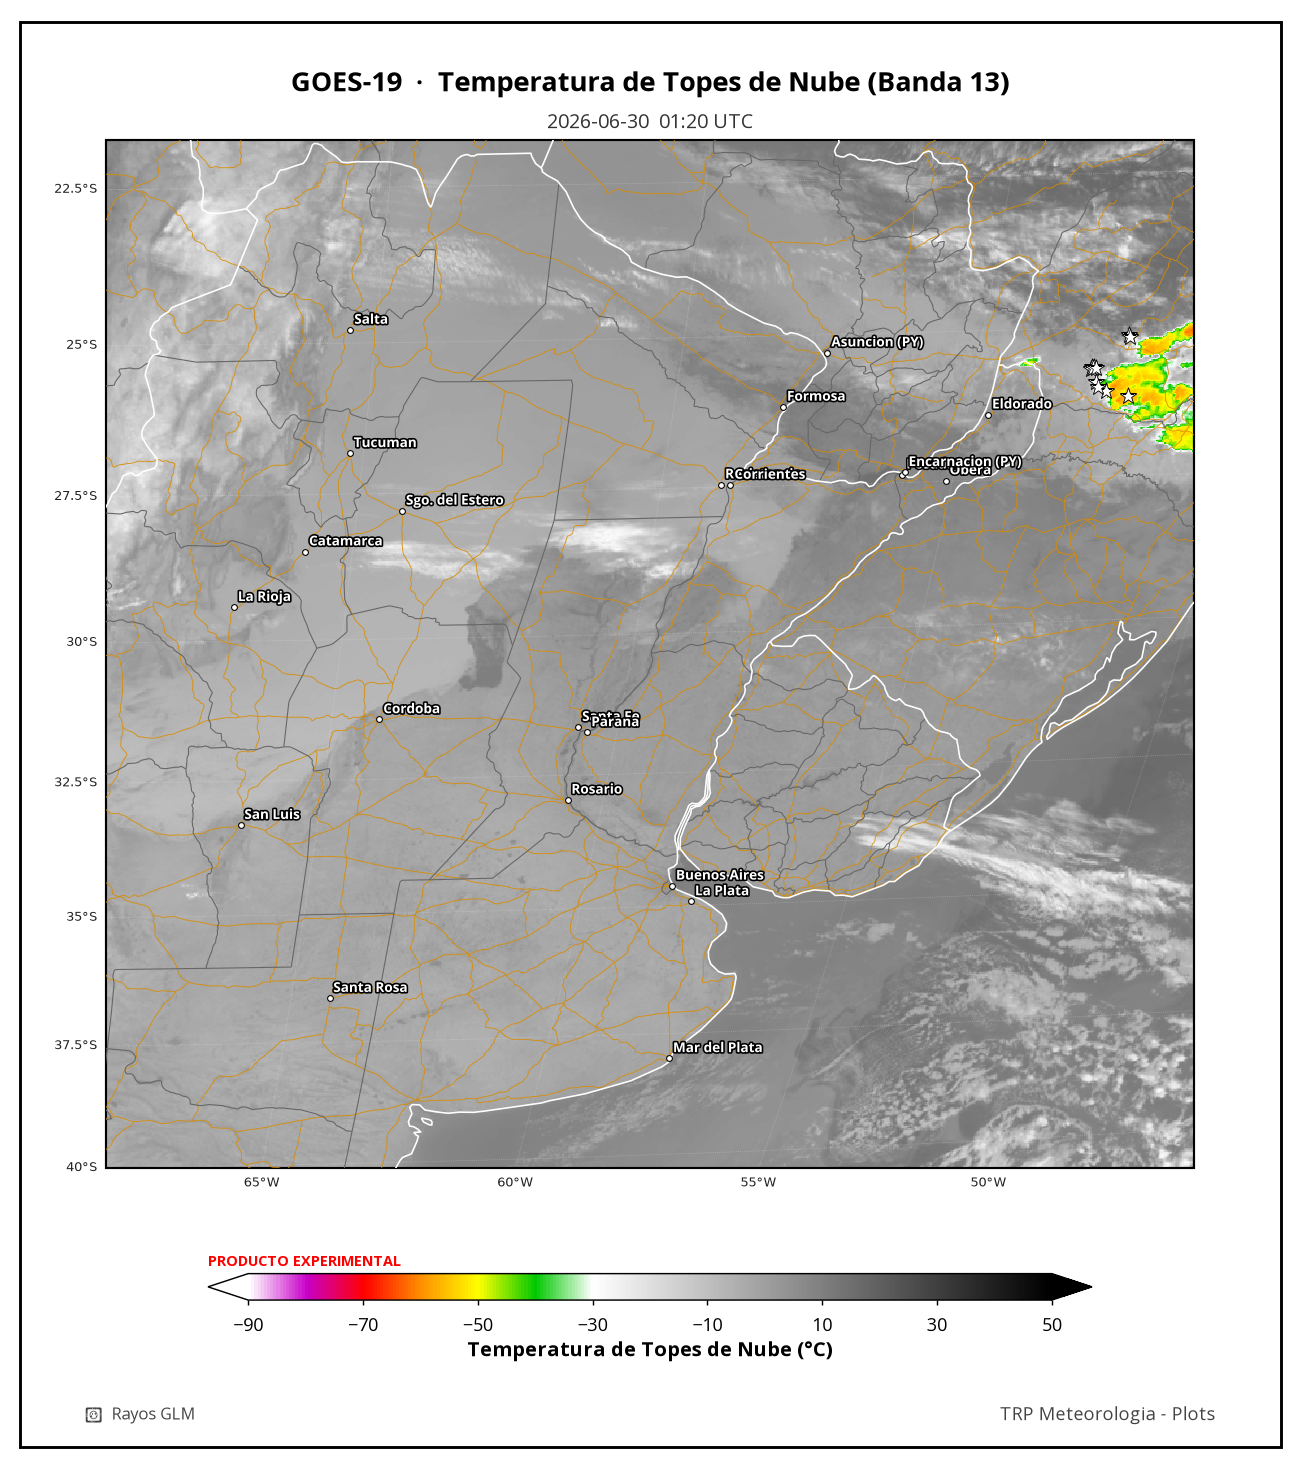
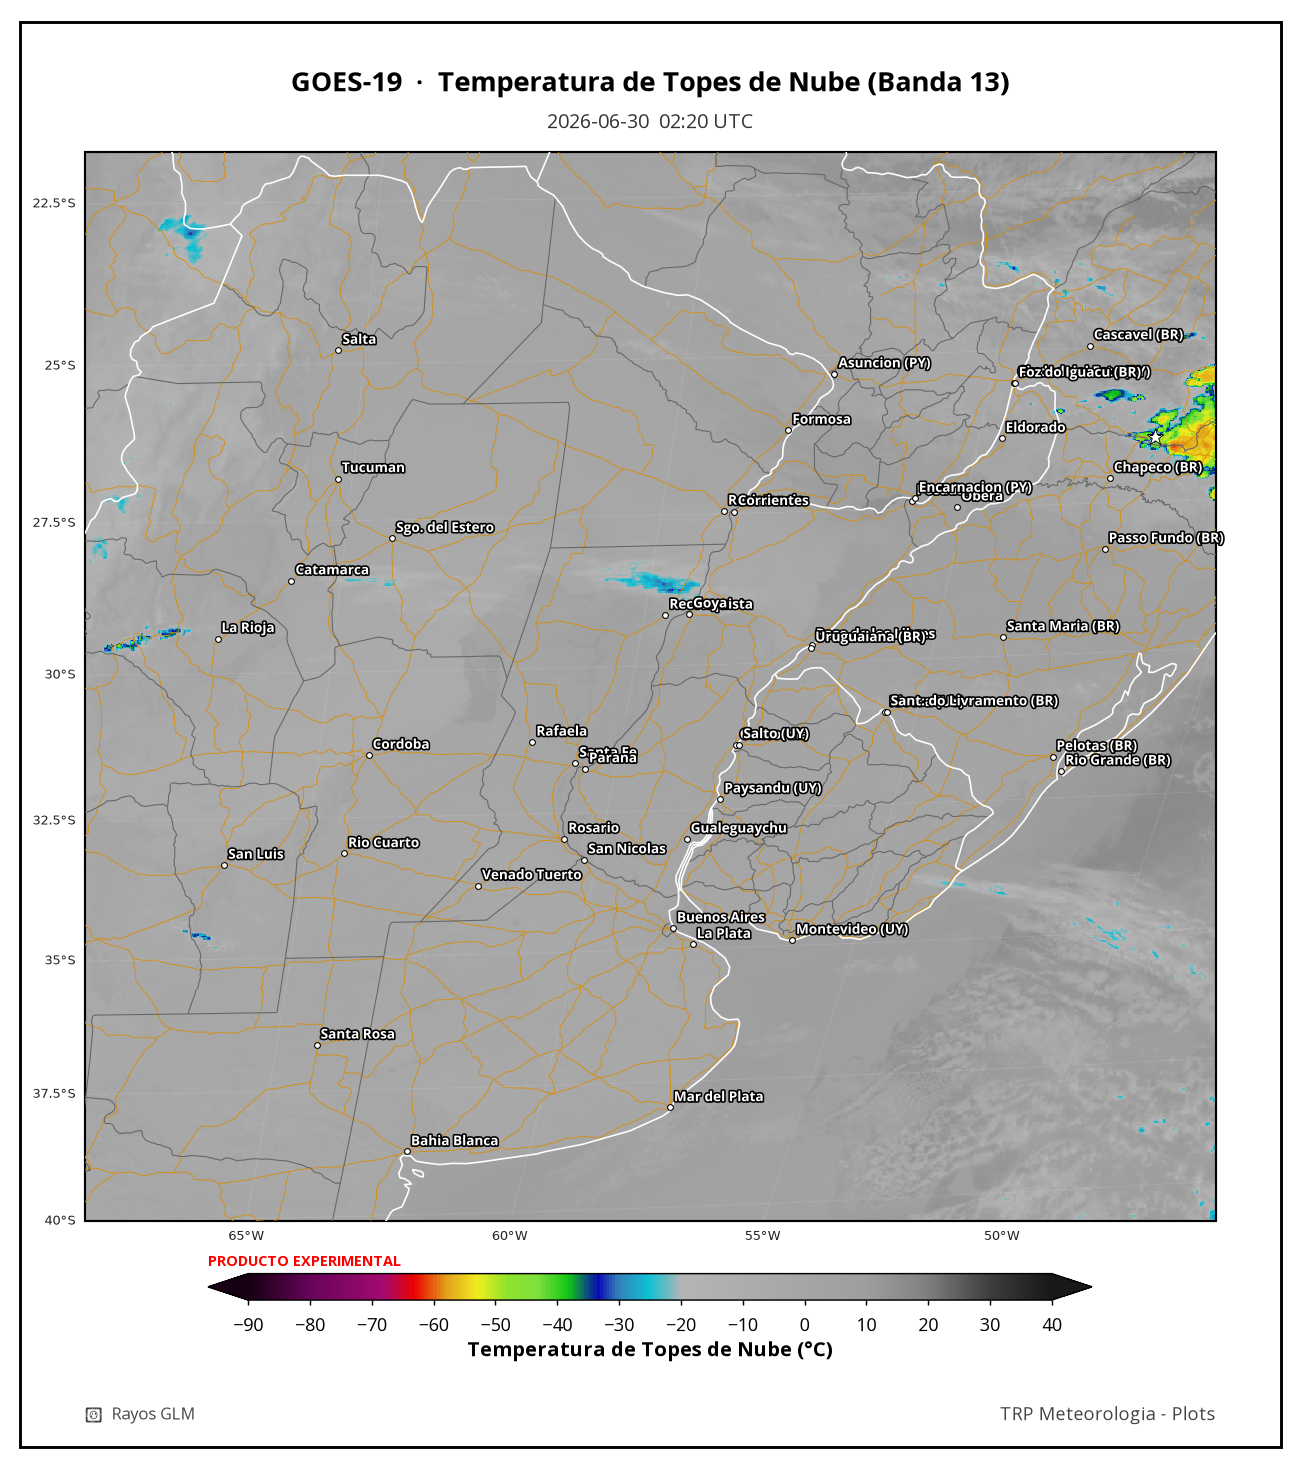
Features: panel mas alto, nueva region sur de Brasil y mas ciudades
- Panel del mapa mas alto hacia abajo (bottom 0.205->0.160), mismo ancho/izquierda.
  El mapa crece sin deformar (aspecto geografico equal preservado).
- Nueva region 'sur_brasil': Parana + Santa Catarina + Rio Grande do Sul.
- Ciudades ampliadas: +Argentina (Bahia Blanca, Concordia, Rio Cuarto, etc.),
  Uruguay (Montevideo, Salto...), Paraguay (Cdad del Este) y sur de Brasil
  (Curitiba, Florianopolis, Porto Alegre, Foz do Iguacu, etc.).
- Actualiza imagenes de muestra (completo + sur_brasil).

Changed region(s): [[0.0308, 0.0919, 0.9538, 0.919], [0.5846, 0.1532, 0.6154, 0.1838], [0.5231, 0.8884, 0.5538, 0.919]]

diff --git a/goes19_nowcasting.py b/goes19_nowcasting.py
@@ -76,15 +76,17 @@ EXPERIMENTAL_TEXT = "PRODUCTO EXPERIMENTAL"
 
 # --- Regiones predefinidas: extent [lon_min, lon_max, lat_min, lat_max] ---
 REGIONS = {
-    "completo":  [-68.0, -52.0, -40.0, -22.0],   # Pampeana + Norte + Misiones
-    "pampeana":  [-66.0, -56.0, -40.0, -30.0],
-    "norte":     [-67.0, -53.0, -30.0, -21.0],
-    "misiones":  [-57.5, -53.2, -28.6, -25.2],
+    "completo":   [-68.0, -52.0, -40.0, -22.0],   # Pampeana + Norte + Misiones
+    "pampeana":   [-66.0, -56.0, -40.0, -30.0],
+    "norte":      [-67.0, -53.0, -30.0, -21.0],
+    "misiones":   [-57.5, -53.2, -28.6, -25.2],
+    "sur_brasil": [-58.0, -47.5, -34.0, -22.3],   # Parana + Santa Catarina + Rio Grande do Sul
 }
 DEFAULT_REGION = "completo"
 
 # --- Ciudades (nombre, lon, lat). Se filtran a las que caen dentro del extent ---
 CITIES = [
+    # --- Argentina ---
     ("Buenos Aires", -58.38, -34.61),
     ("La Plata", -57.95, -34.92),
     ("Rosario", -60.64, -32.95),
@@ -92,9 +94,19 @@ CITIES = [
     ("Santa Fe", -60.70, -31.63),
     ("Parana", -60.52, -31.73),
     ("Mar del Plata", -57.55, -38.00),
+    ("Bahia Blanca", -62.27, -38.72),
     ("Santa Rosa", -64.29, -36.62),
     ("Mendoza", -68.84, -32.89),
     ("San Luis", -66.34, -33.30),
+    ("Rio Cuarto", -64.35, -33.13),
+    ("Venado Tuerto", -61.97, -33.75),
+    ("San Nicolas", -60.22, -33.33),
+    ("Rafaela", -61.49, -31.25),
+    ("Concordia", -58.02, -31.39),
+    ("Gualeguaychu", -58.51, -33.01),
+    ("Reconquista", -59.65, -29.15),
+    ("Goya", -59.26, -29.14),
+    ("Paso de los Libres", -57.09, -29.71),
     ("Posadas", -55.90, -27.37),
     ("Obera", -55.12, -27.49),
     ("Eldorado", -54.62, -26.40),
@@ -106,8 +118,38 @@ CITIES = [
     ("Salta", -65.41, -24.79),
     ("Catamarca", -65.78, -28.47),
     ("La Rioja", -66.86, -29.41),
-    ("Encarnacion (PY)", -55.87, -27.33),
+    # --- Uruguay ---
+    ("Montevideo (UY)", -56.16, -34.90),
+    ("Salto (UY)", -57.96, -31.38),
+    ("Paysandu (UY)", -58.08, -32.32),
+    ("Rivera (UY)", -55.55, -30.90),
+    # --- Paraguay ---
     ("Asuncion (PY)", -57.58, -25.30),
+    ("Encarnacion (PY)", -55.87, -27.33),
+    ("Ciudad del Este (PY)", -54.61, -25.51),
+    # --- Brasil: Parana (PR) ---
+    ("Curitiba (BR)", -49.27, -25.43),
+    ("Foz do Iguacu (BR)", -54.59, -25.52),
+    ("Cascavel (BR)", -53.46, -24.96),
+    ("Londrina (BR)", -51.16, -23.31),
+    ("Maringa (BR)", -51.94, -23.42),
+    ("Ponta Grossa (BR)", -50.16, -25.09),
+    # --- Brasil: Santa Catarina (SC) ---
+    ("Florianopolis (BR)", -48.55, -27.59),
+    ("Joinville (BR)", -48.85, -26.30),
+    ("Blumenau (BR)", -49.07, -26.92),
+    ("Chapeco (BR)", -52.62, -27.10),
+    ("Lages (BR)", -50.33, -27.82),
+    ("Criciuma (BR)", -49.37, -28.68),
+    # --- Brasil: Rio Grande do Sul (RS) ---
+    ("Porto Alegre (BR)", -51.23, -30.03),
+    ("Caxias do Sul (BR)", -51.18, -29.17),
+    ("Passo Fundo (BR)", -52.41, -28.26),
+    ("Santa Maria (BR)", -53.81, -29.68),
+    ("Pelotas (BR)", -52.34, -31.77),
+    ("Rio Grande (BR)", -52.10, -32.03),
+    ("Uruguaiana (BR)", -57.09, -29.76),
+    ("Sant. do Livramento (BR)", -55.53, -30.89),
 ]
 
 # --- Acumulacion de rayos GLM: minutos previos al tiempo de la imagen ---
@@ -272,7 +314,9 @@ def make_plot(data_c, ext_m, geos, t_scan, extent, glm_lon, glm_lat,
                              fill=False, edgecolor="black", linewidth=1.6, zorder=10))
 
     # --- Eje del mapa ---
-    ax = fig.add_axes([0.065, 0.205, 0.87, 0.70], projection=geos)
+    # Mismo ancho (0.87) y borde izquierdo (0.065); panel mas alto hacia abajo
+    # (borde inferior baja de 0.205 a 0.160, justo por encima del colorbar).
+    ax = fig.add_axes([0.065, 0.160, 0.87, 0.745], projection=geos)
     ax.set_extent(extent, crs=ccrs.PlateCarree())
     for spine in ax.spines.values():
         spine.set_edgecolor("black")